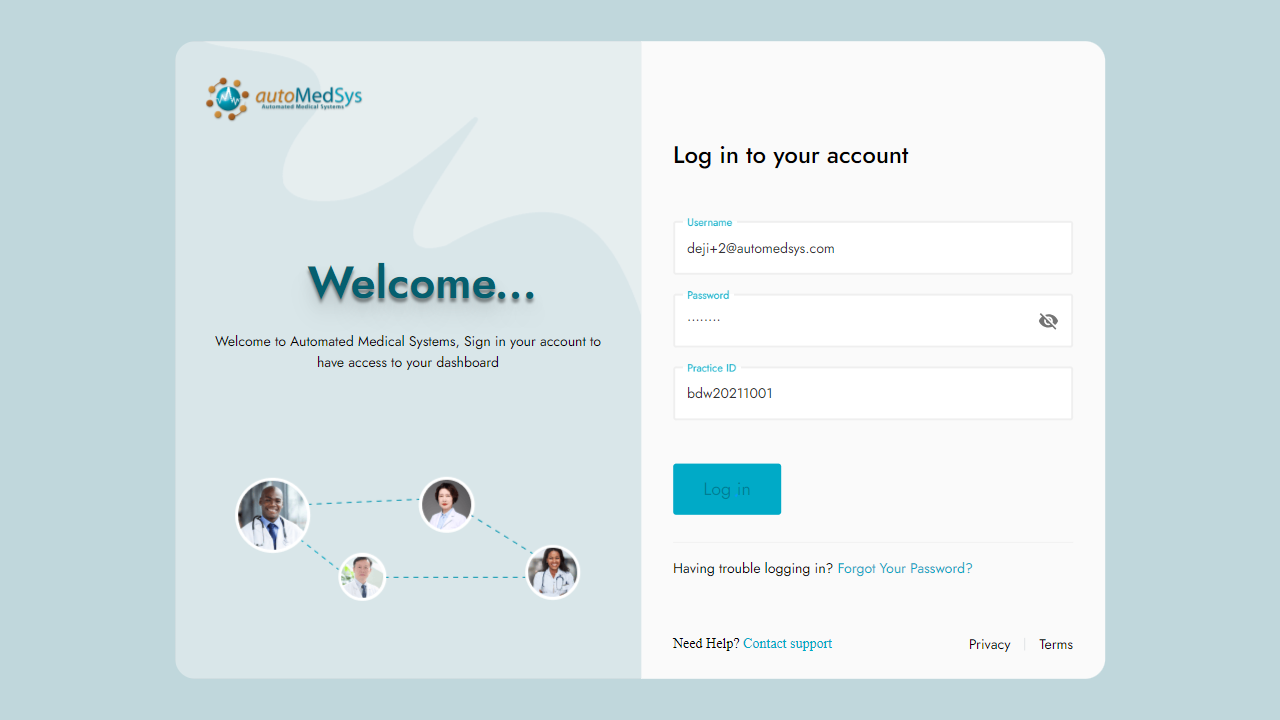
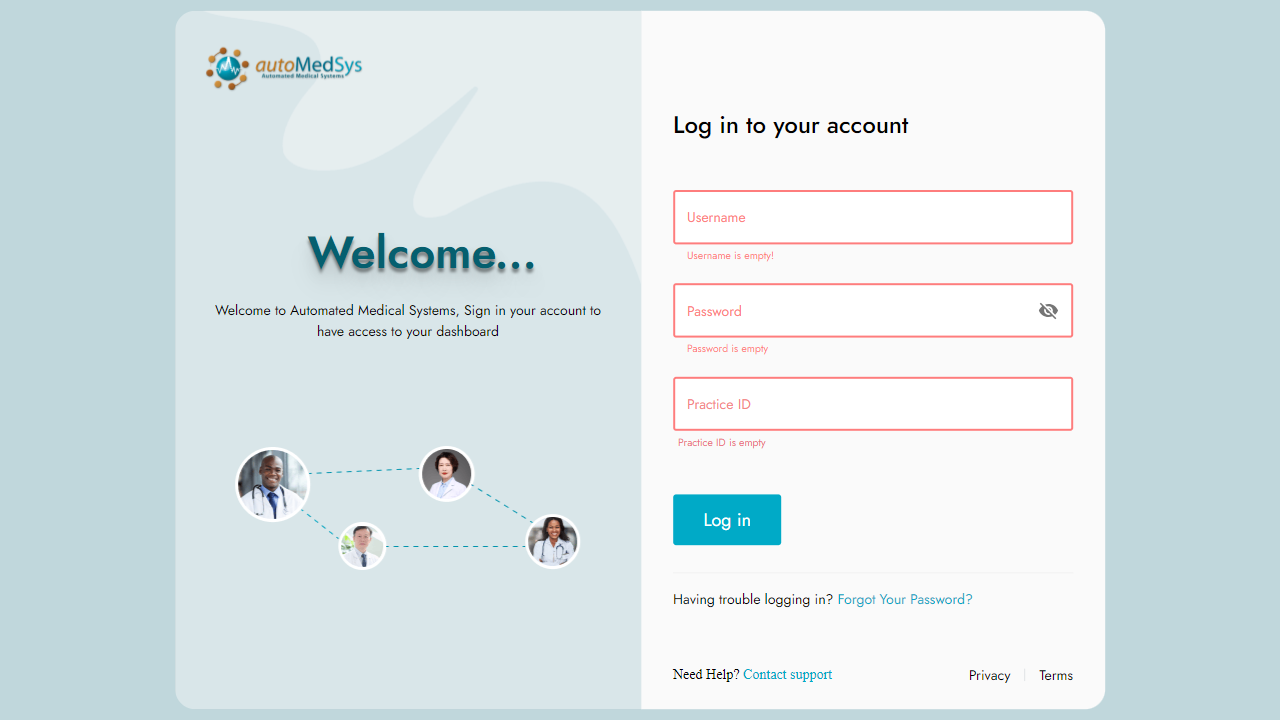
css locator

diff --git a/mytests/login.spec.ts b/mytests/login.spec.ts
@@ -16,7 +16,10 @@ test('login test',async()=>{
    const username: Locator =  await page.locator('#Username');
    const password: Locator = await page.locator('#Password');
    const practiceId:Locator = await page.locator('#PracticeRefNumber')
-   const loginBtn:any = await page.waitForSelector("//span[normalize-space()='Log in']");
+   // DIFFERENT  WAYS TO USE LOCATORS IN PLAYWRIGHT
+//    const loginBtn:any = await page.waitForSelector("//span[normalize-space()='Log in']");
+//    const loginBtn = await page.locator('xpath = //span[normalize-space()="Log in"] ')
+   const loginBtn = await page.locator('css = button[type="submit"]')
     await username.fill('')
     await password.fill('')
     await practiceId.fill('')
